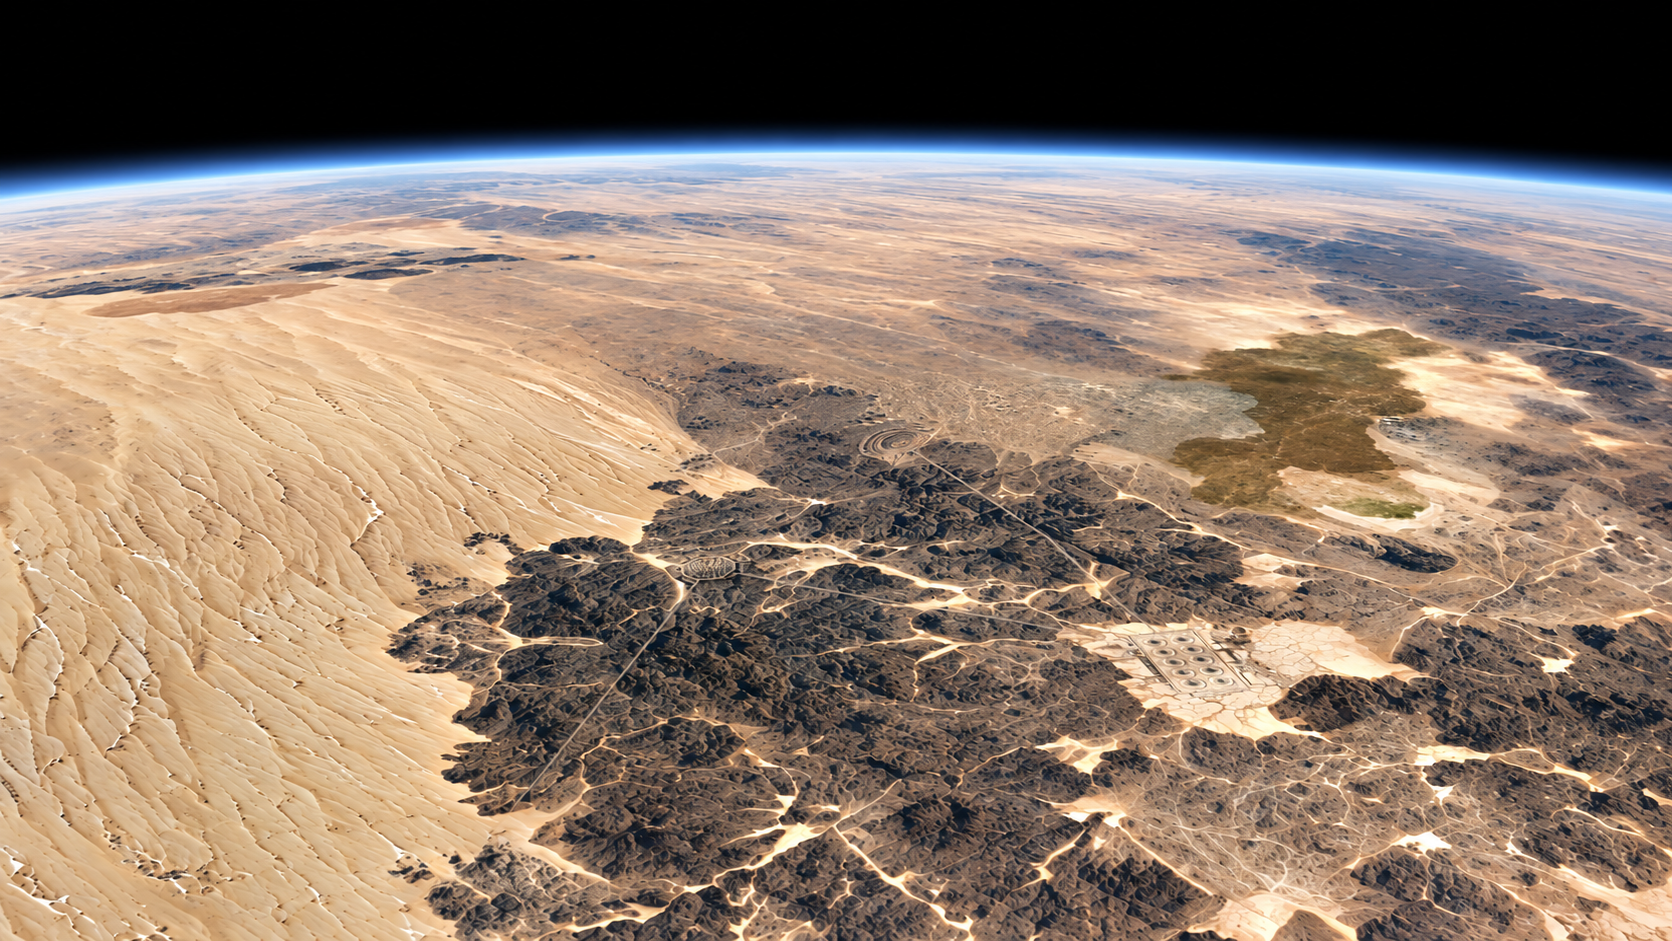
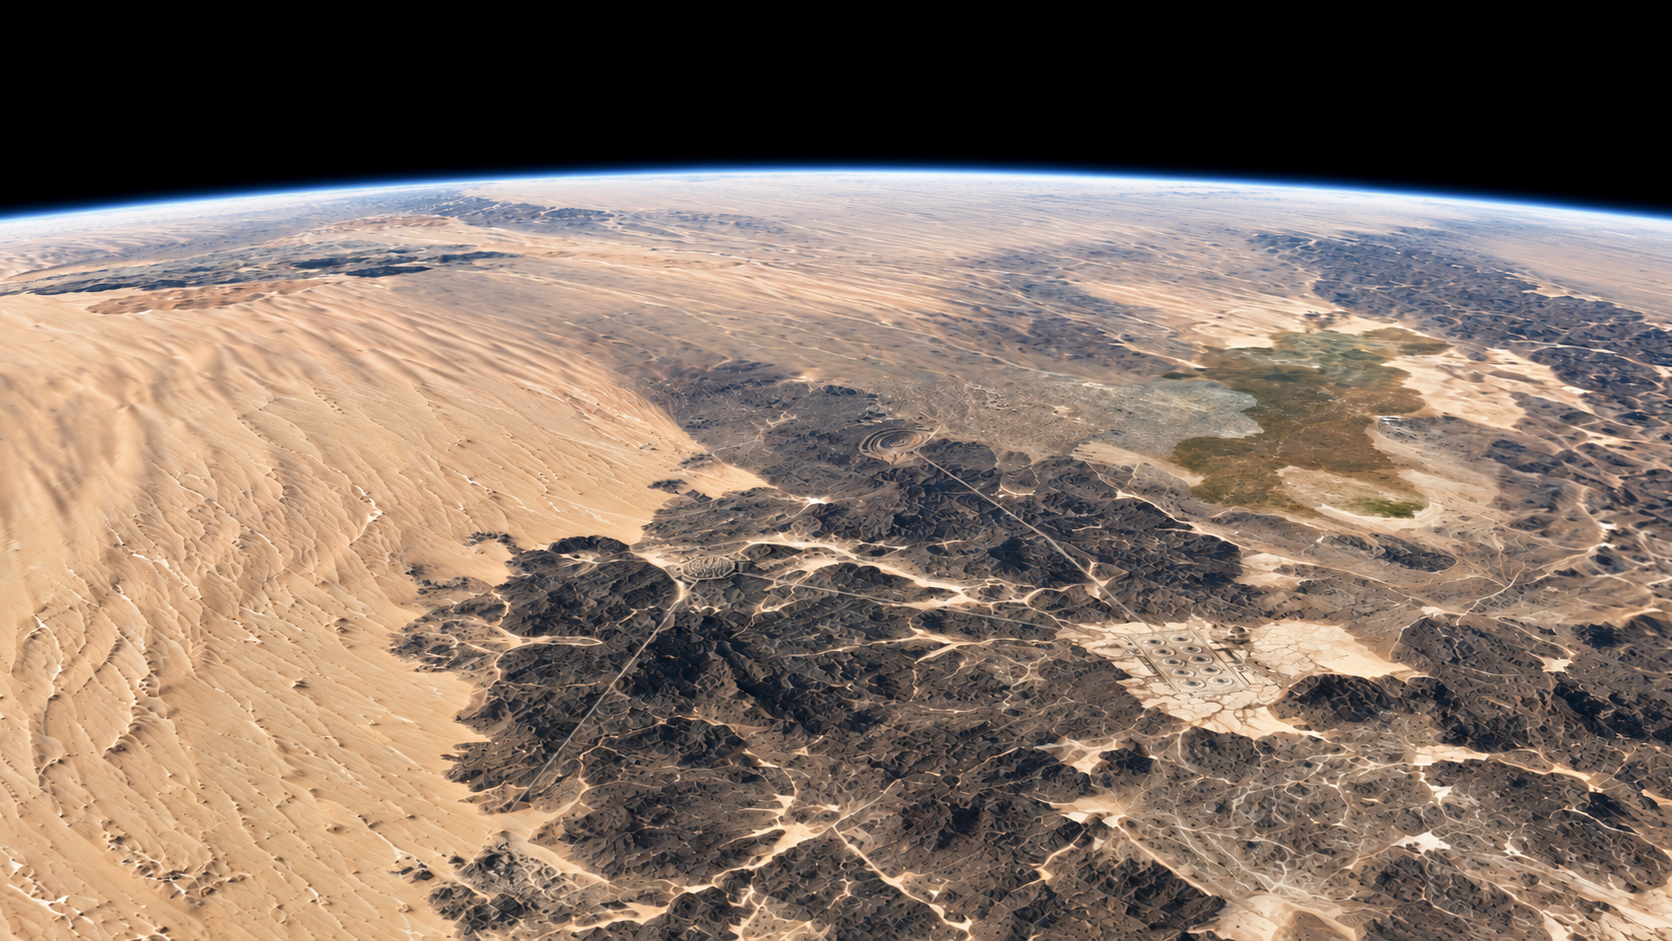
Asharu: far tile for S12's horizon band, S12 plate repainted to match; owner decisions in the shot plan
The far tile (1,400 km, 1.37 km/px) covers 450-1,850 km down the track,
generated from the layer below like the others; S12's band under the horizon
was the 3.3 km/px regional tile. The S12 plate is repainted from the new
guide, its painted limb remapped per column and the air redrawn as one glow
profile. --check now reports the ground just below the horizon.
Owner (2026-10-22): tiles on by default, settlements accepted, plates for S1a
and S12, one more tile for S12.

diff --git a/art-source/company-prologue/asharu-battle/plates/finish_plates.py b/art-source/company-prologue/asharu-battle/plates/finish_plates.py
@@ -6,9 +6,9 @@
     python finish_plates.py --tone k0=RENDER.png k6=RENDER.png   # refit tone/<kf>.png from graded renders
 
 1. Resize the painting to 1920x1080 (the key frame's frame; ImageGen returns 1672x941).
-2. S12 only: the painting puts its horizon a little high. Rows above the guide's band of exact
-   registration are remapped so the painted limb meets the camera's true limb (the ray-cast
-   guide's, raised by the air shell's thickness), and nothing below that band moves.
+2. S12 only: rows above the guide's band of exact registration are remapped so the painted
+   ground's top edge meets the camera's true limb, and the air above it is redrawn as one glow
+   profile sampled from the painting, so the painted limb's own steps cannot show.
 3. Tone-match it to the graded render of its key frame with the detail tiles (tone/<kf>.png, a
    coarse ground-colour field: exposure, palette and haze with distance), then invert the grade. The painting is display-referred, painted to look like the
    graded still; the composite grades the backdrop through AgX 'Base Contrast'. agx_lut.py
@@ -92,19 +92,26 @@ def ungrade(y, axis, disp, steps=10):
     return np.where(y.max(-1, keepdims=True) <= grey[0].max() + 1e-4, 0.0, lin), grade(z, axis, disp)
 
 
-def limb_rows(img, lo=40, hi=REGISTERED_FROM):
-    """Per column, the row of the painted limb: the brightest row of the air glow's blue."""
-    b = img[lo:hi, :, 2] - .5 * (img[lo:hi, :, 0] + img[lo:hi, :, 1])
-    return lo + np.argmax(b, axis=0)
+def ground_top(img, lo=40, hi=REGISTERED_FROM):
+    """Per column, the row where the painting stops being empty space (the top of its limb,
+    glow or ground), from the top, smoothed along the limb with a median and a mean."""
+    lit = img[lo:hi].mean(-1) > .12
+    first = np.where(lit.any(0), np.argmax(lit, axis=0), hi - lo).astype(float) + lo
+    k = 81
+    pad = np.pad(first, k // 2, mode='edge')
+    med = np.array([np.median(pad[i:i + k]) for i in range(W)])
+    return np.convolve(np.pad(med, k // 2, mode='edge'), np.ones(k) / k, mode='valid')
 
 
 def fix_horizon(img, guide_hit):
-    """Rows above REGISTERED_FROM remapped per column so the painted limb lands on the true one."""
+    """S12's limb, made to sit on the camera's: rows above REGISTERED_FROM are remapped per column
+    so the painted ground's top edge lands on the true limb (the ground registers within a pixel
+    below that band), then the air above it is redrawn as one glow profile, sampled from the
+    painting itself, so a step or gap in the painted glow cannot show."""
     x = np.arange(W)
-    # Both limbs are smooth curves: fit each with a parabola so whole-pixel steps leave no stripes.
-    true = np.polyval(np.polyfit(x, np.argmax(guide_hit, axis=0).astype(float), 2), x) - 3.0   # air shell
-    painted = np.polyval(np.polyfit(x, limb_rows(img).astype(float), 2), x)
+    true = np.polyval(np.polyfit(x, np.argmax(guide_hit, axis=0).astype(float), 2), x)
     true = np.minimum(true, REGISTERED_FROM - 20)
+    painted = np.clip(ground_top(img), true - 60, true + 60)
     ys = np.arange(REGISTERED_FROM, dtype=float)[:, None]
     src = np.where(ys <= true, ys * painted / np.maximum(true, 1),
                    painted + (ys - true) * (REGISTERED_FROM - painted) / np.maximum(REGISTERED_FROM - true, 1))
@@ -113,6 +120,20 @@ def fix_horizon(img, guide_hit):
     t = (src - y0)[..., None]
     cols = np.arange(W)[None, :]
     out[:REGISTERED_FROM] = img[y0, cols] * (1 - t) + img[y0 + 1, cols] * t
+    # The glow: the painting's own colour d rows above its ground, averaged over the columns where
+    # the painted glow is brightest (the clean stretch), laid along the true limb everywhere.
+    depth = 40
+    d = true[None, :] - ys                                   # rows above the true limb
+    ref_cols = np.argsort(out[np.clip((true - 6).astype(int), 0, H - 1), x, 2])[-W // 4:]
+    prof = np.stack([out[np.clip((true[ref_cols] - k).astype(int), 0, H - 1), ref_cols].mean(0)
+                     for k in range(depth + 1)])            # depth+1 x 3, k rows above the limb
+    kk = np.clip(d, 0, depth)
+    k0 = np.floor(kk).astype(int)
+    f = (kk - k0)[..., None]
+    glow = prof[k0] * (1 - f) + prof[np.minimum(k0 + 1, depth)] * f
+    glow = np.where((d > depth)[..., None], 0.0, glow)
+    sky = np.clip(d, 0, 1)[..., None]                       # 1 above the limb, ramping to 0 on it
+    out[:REGISTERED_FROM] = out[:REGISTERED_FROM] * (1 - sky) + glow * sky
     return out
 
 

diff --git a/art-source/company-prologue/asharu-battle/surface/surface_detail.py b/art-source/company-prologue/asharu-battle/surface/surface_detail.py
@@ -21,12 +21,14 @@ MAP_LAT, MAP_LON = 12.0, 95.0     # battle_blockout.py's; the battle sits over t
 #   regional: everything a 25-degree-down wide shot sees out to the 1,580 km horizon (S1, S4, S12)
 #   mid:      the near ring of the wide shots, about 600 km out in every direction
 #   near:     under the convoy; S1a's straight-down frame is 94 x 53 km of it
+#   far:      S12's far band, 450-1,850 km down the track to the horizon (laid over mid, under track)
 #   aft:      S4's ground, looking back and down past the platform to the north-west
 #   flank:    S1's ground, looking forward and down past the convoy to the south-east
 #   track:    S12's ground, 310-730 km down the track toward the northern canyons
 TILES = {
     'regional': (300e3, 0.0, 3400e3, 1024),
     'mid': (0.0, 0.0, 1300e3, 1024),
+    'far': (1150e3, 0.0, 1400e3, 1024),
     'aft': (-240e3, 350e3, 500e3, 1024),
     'flank': (230e3, -360e3, 440e3, 1024),
     'track': (520e3, 20e3, 420e3, 1024),
@@ -34,7 +36,7 @@ TILES = {
 }
 # Each tile's guide is the finished tile it sits in (the base map for the first), so every
 # generation adds detail to the one above it rather than reinventing it.
-PARENT = {'regional': None, 'mid': 'regional', 'aft': 'mid', 'flank': 'mid', 'track': 'mid', 'near': 'mid'}
+PARENT = {'regional': None, 'mid': 'regional', 'far': 'regional', 'aft': 'mid', 'flank': 'mid', 'track': 'mid', 'near': 'mid'}
 FEATHER = .14    # share of a tile's half-width over which it fades into the layer below
 
 

diff --git a/art-source/company-prologue/asharu-battle/battle_blockout.py b/art-source/company-prologue/asharu-battle/battle_blockout.py
@@ -2165,7 +2165,11 @@ def surface_lines(loc, f, r, u, fpx):
         return [o[i] + t * d[i] for i in range(3)], t
 
     out = []
-    for label, py in (('centre', H / 2), ('lower edge', H - 1)):
+    rows = [('centre', H / 2), ('lower edge', H - 1)]
+    top = next((py for py in range(0, H, 10) if hit(W / 2, py)), None)
+    if top is not None and top > 0:
+        rows.insert(0, ('below the horizon', min(H - 1, top + 30)))
+    for label, py in rows:
         h = hit(W / 2, py)
         if h is None:
             out.append(f'surface {label}: sky')

diff --git a/art-source/company-prologue/asharu-battle/surface/README.md b/art-source/company-prologue/asharu-battle/surface/README.md
@@ -3,7 +3,7 @@
 The planet under the Asharu battle is the game's own `desert01.jpg` (1024 x 512, about 31 km
 a pixel at the equator) wrapped on a 5,000 km sphere. From the convoy's 250 km orbit that is
 soft everywhere a camera looks: S1a's straight-down frame is 94 km across, three map pixels.
-This package lays ImageGen detail tiles over the map where the cameras look, and paints a few
+This package lays seven ImageGen detail tiles over the map where the cameras look, and paints a few
 static settlements into them. `battle_blockout.py` composites them in the planet material
 (`surface_layers`); `SURFACE_DETAIL` is the knob and `--surface base` renders the control.
 
@@ -17,6 +17,7 @@ same projection samples the game map, so a tile and the map agree point for poin
 |---|---|---|---|---|
 | regional | (300, 0) | 3,400 km | 3,300 | everything out to the 1,580 km horizon |
 | mid | (0, 0) | 1,300 km | 1,270 | the near ring of every wide shot |
+| far | (1,150, 0) | 1,400 km | 1,370 | S12's far band, 450-1,850 km out to the horizon (over mid, under track) |
 | aft | (-240, 350) | 500 km | 490 | S4, looking back past the platform (north-west) |
 | flank | (230, -360) | 440 km | 430 | S1, looking forward past the convoy (south-east) |
 | track | (520, 20) | 420 km | 410 | S12, down the track toward the northern canyons |

diff --git a/art-source/company-prologue/asharu-battle/asharu-battle-shot.md b/art-source/company-prologue/asharu-battle/asharu-battle-shot.md
@@ -40,6 +40,16 @@ sheltering mountains. Its texture in the blockout is the game's own
 `desert01` map (read from the install, never copied), which has scarps and
 canyons between dune seas, broken up by procedural relief.
 
+**Surface detail** (owner, 2026-10-22). Over that map lie seven ImageGen detail tiles, each
+generated from the layer below so the planet still reads as desert01 from orbit, from 3.3 km a
+pixel out to the horizon down to 156 m under S1a, with static settlements painted in where the
+cameras see them: under S1a a walled town where two wadis meet, a landing grid and a terraced
+open-pit mine; down S12's track a spaceport on a salt pan, a walled city at the canyon mouth and
+strip mines. No traffic, no lights. The tiles are on by default (`--surface base` is the
+control); the settlements are accepted as they are. **S1a and S12 use matte-painted backdrop
+plates** in place of the rendered planet layer (`plates/`, Drive `builds/asharu-plates/`, pinned
+by `roster.PLATES`). See `surface/README.md` and `plates/README.md`.
+
 The game also gives Asharu a **derelict orbital platform**: "castoff
 bulk-carrier segments welded between a honeycomb of emptied fuel tanks...
 hangars stand empty but for a few slumped, stripped hulks... no one would
